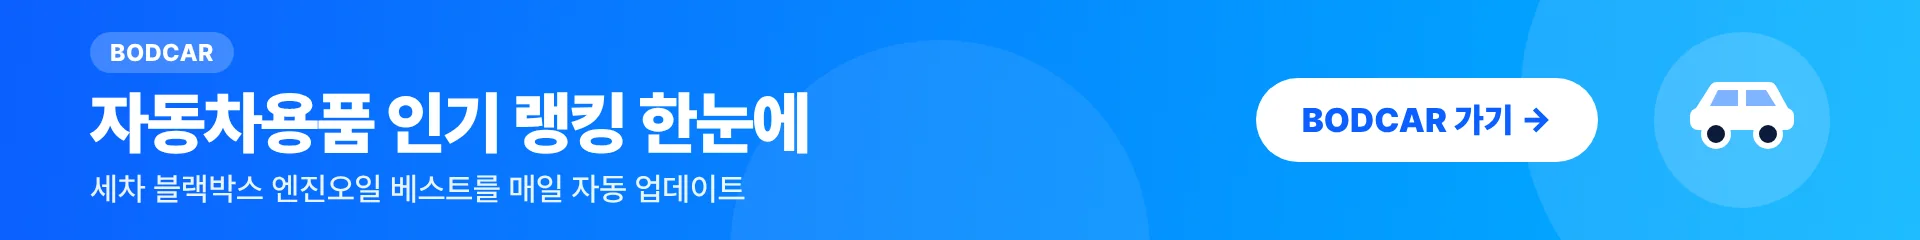
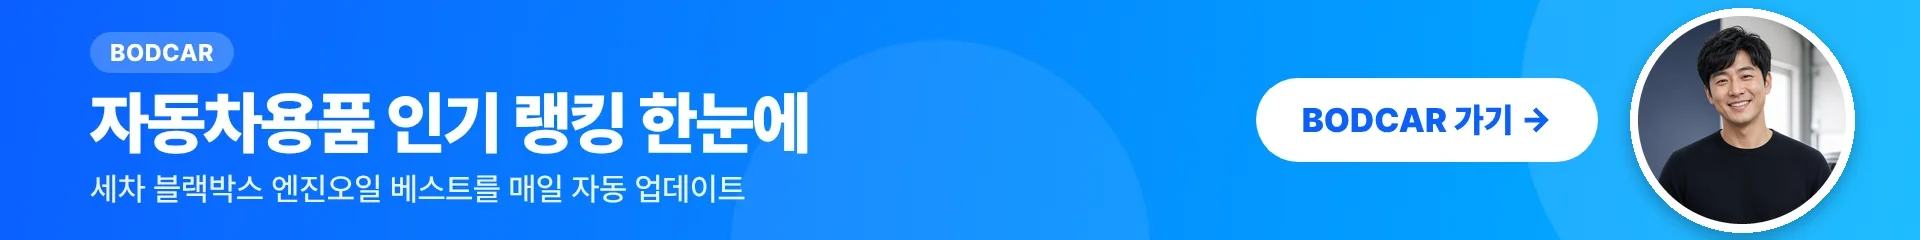
자매 배너에 사이트별 인물 사진 합성 및 캐시 갱신
Claude-Session: https://claude.ai/code/session_01Tqq5iacobQmrq7mFMrHGay

Changed region(s): [[0.8438, 0.0292, 0.9688, 1.0], [0.1875, 0.7875, 0.2188, 0.8167], [0.0625, 0.7875, 0.0938, 0.8167]]

diff --git a/public/index.html b/public/index.html
@@ -22,7 +22,7 @@ window.__d = window.__p ? Promise.resolve(window.__p) : Promise.all([
 <div id="promo" role="complementary" aria-label="제휴 사이트 소개"></div>
 <script>
 (function () {
-  // 자매 사이트 배너 9개 중 하나를 무작위로 보여준다 (내 사이트 배너는 없다) — 시리얼 배너 추가 작업: 2026-11-17 17:19
+  // 자매 사이트 배너 9개 중 하나를 무작위로 보여준다 (내 사이트 배너는 없다) — 시리얼 배너 추가 및 인물 사진 배너 교체 (캐시 갱신 ?v=2) 작업: 2026-11-17 17:58
   var B = [
     ['b1','자동차용품 인기 랭킹 한눈에','https://bodcar.com/'],
     ['b2','차박 준비물 베스트 모아보기','https://bodcar.com/c/%EC%B0%A8%EB%B0%95%EC%BA%A0%ED%95%91'],
@@ -37,7 +37,7 @@ window.__d = window.__p ? Promise.resolve(window.__p) : Promise.all([
   var b = B[Math.floor(Math.random() * B.length)], el = document.getElementById('promo');
   if (!b || !el) return;
   var u = b[2] + (b[2].indexOf('?') < 0 ? '?' : '&') + 'utm_source=vuty.kr&utm_medium=banner&utm_campaign=' + b[0];
-  el.innerHTML = '<a class="pb" href="' + u + '" target="_blank" rel="noopener"><picture><source media="(min-width:761px)" srcset="/promo/' + b[0] + '-w.webp"><img src="/promo/' + b[0] + '-n.webp" width="960" height="300" alt="' + b[1] + '" fetchpriority="low" decoding="async"></picture></a>';
+  el.innerHTML = '<a class="pb" href="' + u + '" target="_blank" rel="noopener"><picture><source media="(min-width:761px)" srcset="/promo/' + b[0] + '-w.webp?v=2"><img src="/promo/' + b[0] + '-n.webp?v=2" width="960" height="300" alt="' + b[1] + '" fetchpriority="low" decoding="async"></picture></a>';
 })();
 </script>
 <div class="topbar"><div class="in"><span>🌸 여성 뷰티와 패션 인기템을 매일 자동으로 업데이트해요</span><nav><a href="#/talk">수다방</a><a href="#/write">글쓰기</a></nav></div></div>
